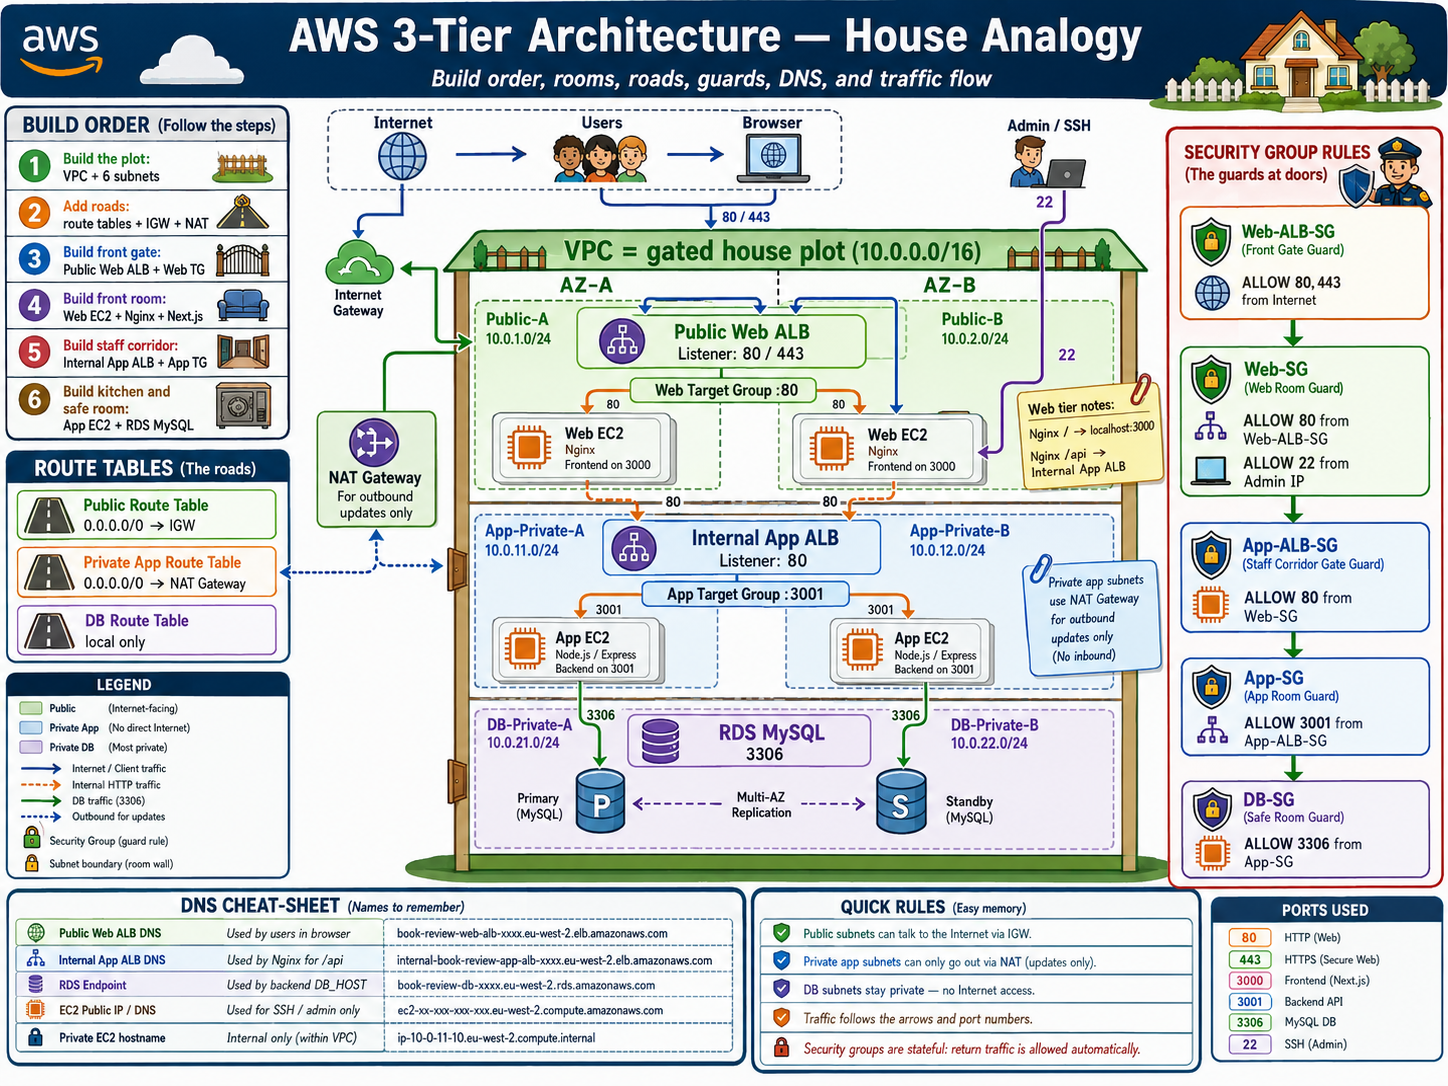
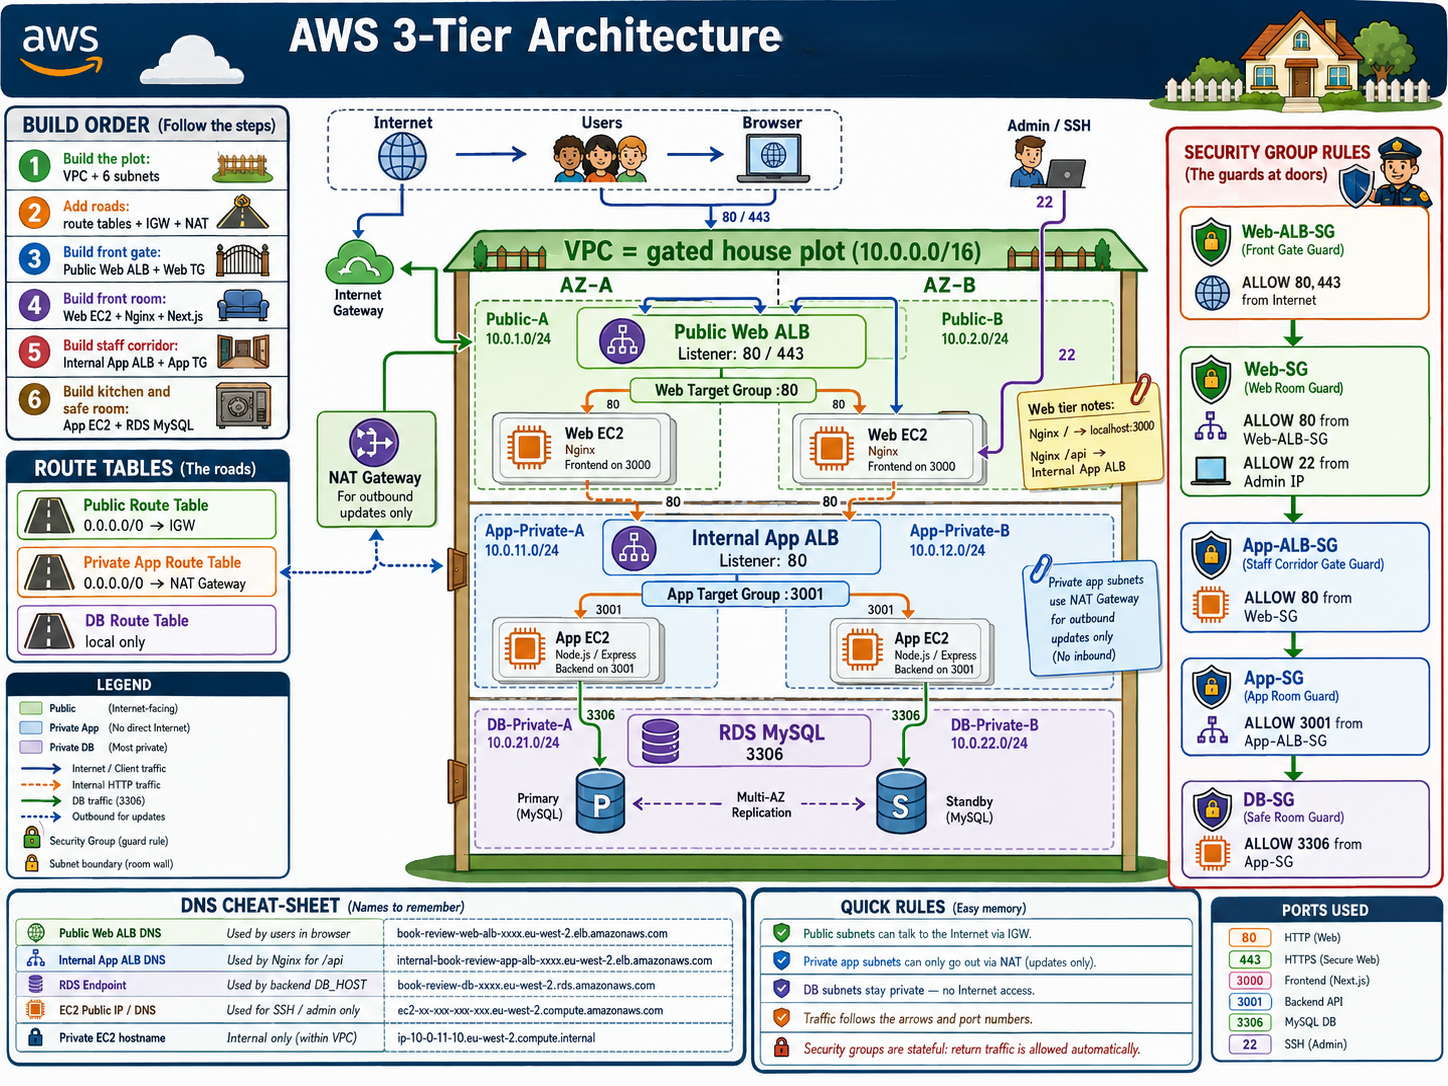
Readme

Changed region(s): [[0.2797, 0.0, 0.808, 0.0912]]

diff --git a/README.md b/README.md
@@ -85,8 +85,8 @@ Week 04 → Git & GitHub
 Week 05 → DevOps Lifecycle & Agile 
 [![Week 05 – Agile](./badges/week-05.svg)](./week-05-devops-lifecycle/)
 
-<!-- Week 06 → AWS Cloud -->
-<!-- [![Week 06 – AWS](./badges/week-06.svg)](./week-06-aws-cloud/) -->
+Week 06 → AWS Cloud
+[![Week 06 – AWS](./badges/week-06.svg)](./week-06-aws-cloud/)
 
 <!-- Week 07 → Azure Cloud -->
 <!-- [![Week 07 – Azure](./badges/week-07.svg)](./week-07-azure-cloud/) -->
